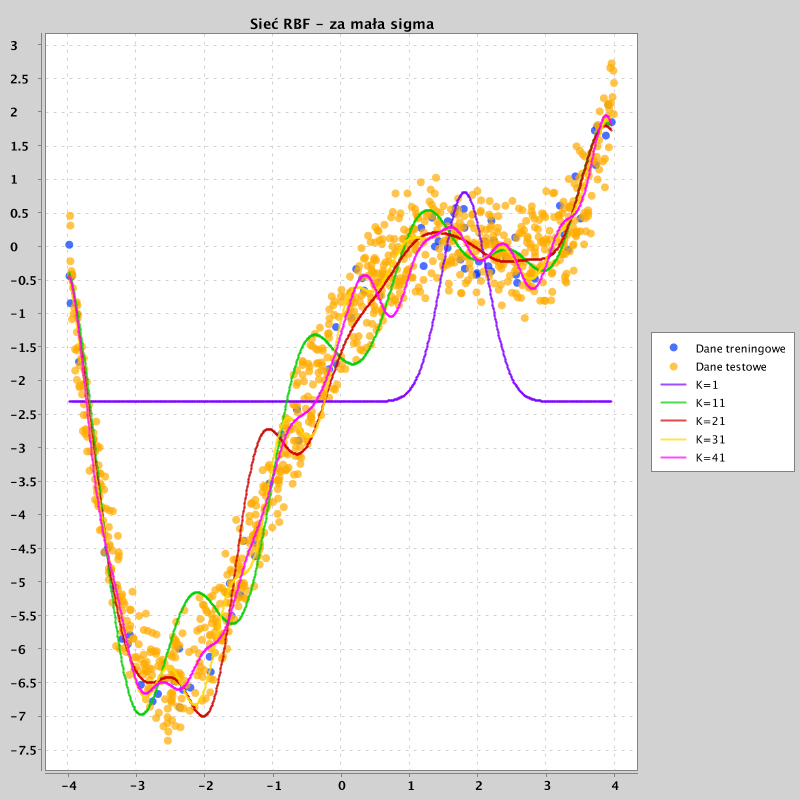
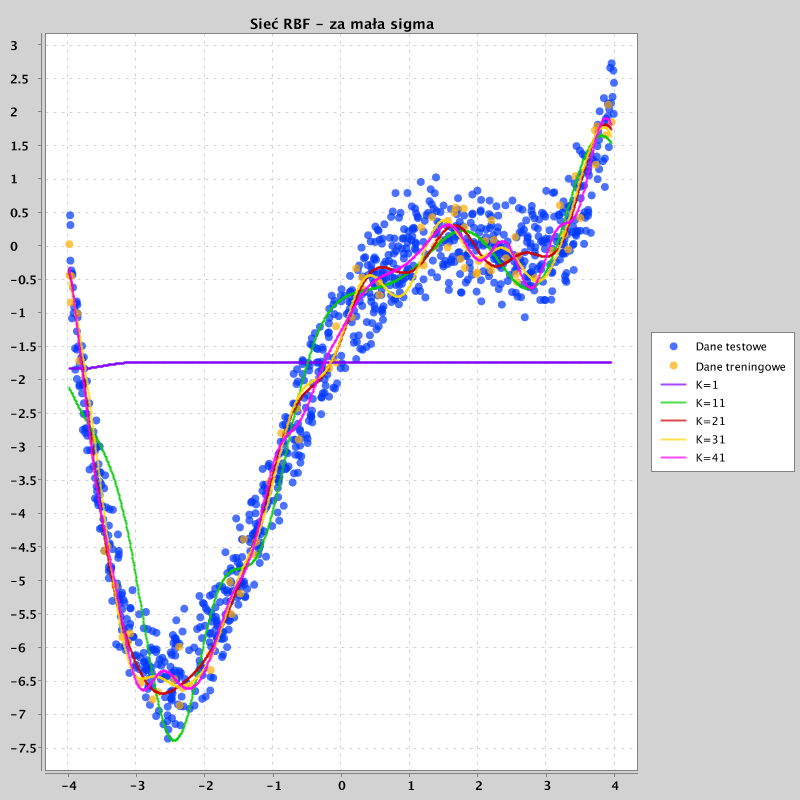
Approx 3 Subtask 1 charts

diff --git a/src/main/kotlin/tasks/Approximation3/DifferentNeuronNumber1.kt b/src/main/kotlin/tasks/Approximation3/DifferentNeuronNumber1.kt
@@ -12,7 +12,7 @@ import network.sigmas.TooSmallSigmaGenerator
 import utils.Charts
 
 class DifferentNeuronNumber1 : Approximation3() {
-    val numIterations = 10000
+    val numIterations = 2000
     val alpha = 0.5
     val folder = "approximation3/1/"
 
@@ -50,15 +50,14 @@ class DifferentNeuronNumber1 : Approximation3() {
 fun main() {
     val dnn = DifferentNeuronNumber1()
 
-    dnn.singleNetwork(41, EqualSigmaGenerator())
 
-    //val first = GlobalScope.async { dnn.chartOptimalSigma() }
+    val first = GlobalScope.async { dnn.chartOptimalSigma() }
     //val second = GlobalScope.async { dnn.chartSmallSigma() }
     //val third = GlobalScope.async { dnn.chartBigSigma() }
 
     runBlocking {
-       // first.await()
-       // second.await()
+        first.await()
+        //second.await()
        // third.await()
     }
 }
